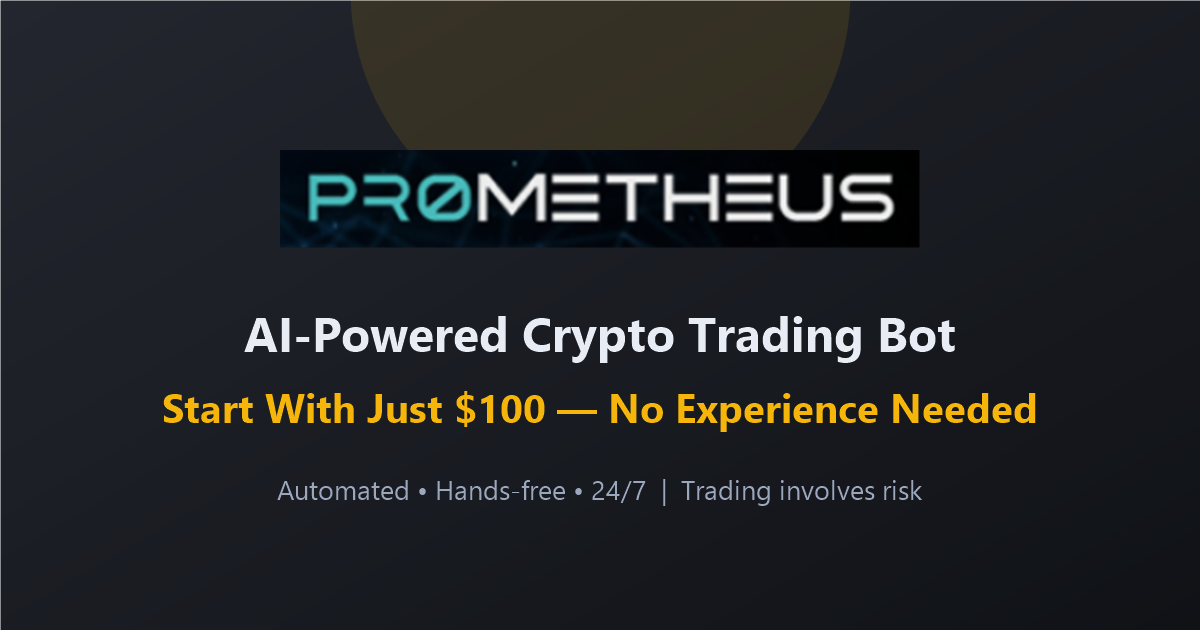
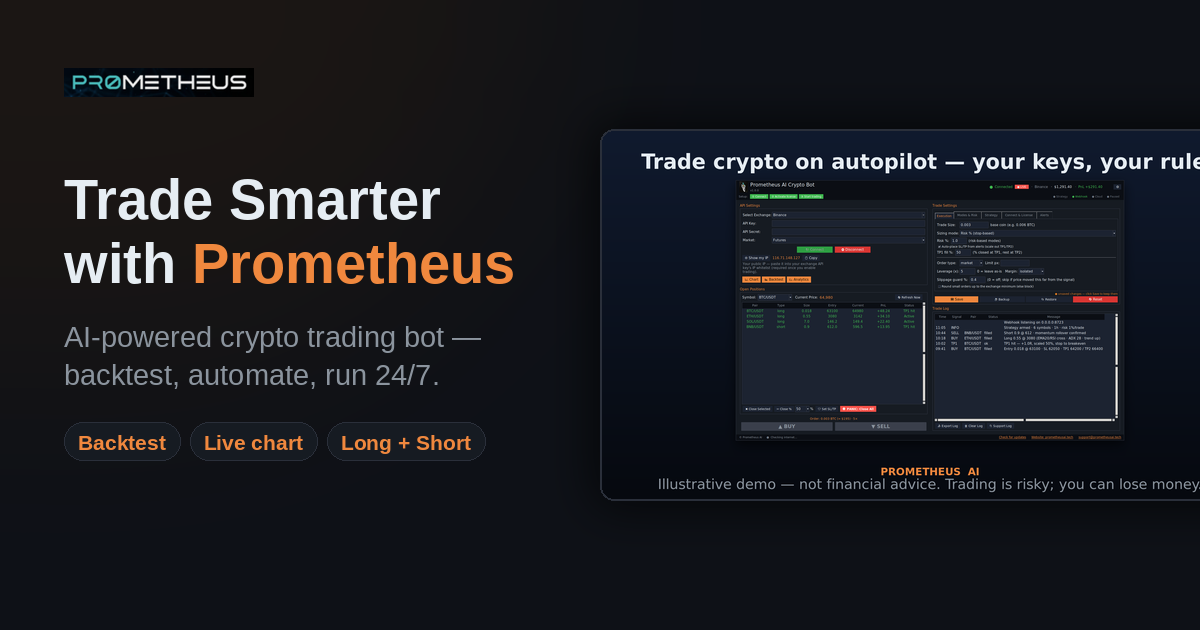
Site: branded 1200x630 OG image + OG/Twitter tags on all pages
- Regenerate assets/og-prometheus.jpg (and og-image.png) as a polished 1200x630
  link-preview card built from the dashboard screenshot (logo, headline, feature
  pills, framed app shot on the brand-dark background).
- Add Open Graph + Twitter Card tags to contact/privacy/refund/terms (built from
  each page's existing title/description/canonical) so every page now has rich
  social previews. Titles/descriptions/canonicals were already unique per page.

diff --git a/site/refund.html b/site/refund.html
@@ -7,6 +7,21 @@
   <meta name="description" content="Prometheus Refund Policy — our 90-day guarantee terms, how to request a refund, and what's covered, explained in plain English." />
   <meta name="robots" content="index, follow" />
   <link rel="canonical" href="https://prometheusai.tech/refund" />
+  <!-- ===== Open Graph / Social ===== -->
+  <meta property="og:type" content="website" />
+  <meta property="og:site_name" content="Prometheus" />
+  <meta property="og:title" content="Refund Policy | Prometheus" />
+  <meta property="og:description" content="Prometheus Refund Policy — our 90-day guarantee terms, how to request a refund, and what's covered, explained in plain English." />
+  <meta property="og:url" content="https://prometheusai.tech/refund" />
+  <meta property="og:image" content="https://prometheusai.tech/assets/og-prometheus.jpg" />
+  <meta property="og:image:type" content="image/jpeg" />
+  <meta property="og:image:width" content="1200" />
+  <meta property="og:image:height" content="630" />
+  <meta property="og:image:alt" content="Prometheus AI Crypto Trading Bot" />
+  <meta name="twitter:card" content="summary_large_image" />
+  <meta name="twitter:title" content="Refund Policy | Prometheus" />
+  <meta name="twitter:description" content="Prometheus Refund Policy — our 90-day guarantee terms, how to request a refund, and what's covered, explained in plain English." />
+  <meta name="twitter:image" content="https://prometheusai.tech/assets/og-prometheus.jpg" />
   <link rel="icon" type="image/png" href="assets/favicon.png" />
   <link rel="preconnect" href="https://fonts.googleapis.com" />
   <link rel="preconnect" href="https://fonts.gstatic.com" crossorigin />

diff --git a/site/privacy.html b/site/privacy.html
@@ -7,6 +7,21 @@
   <meta name="description" content="Prometheus Privacy Policy — what data we collect, why we collect it, and the choices you have, explained in plain English." />
   <meta name="robots" content="index, follow" />
   <link rel="canonical" href="https://prometheusai.tech/privacy" />
+  <!-- ===== Open Graph / Social ===== -->
+  <meta property="og:type" content="website" />
+  <meta property="og:site_name" content="Prometheus" />
+  <meta property="og:title" content="Privacy Policy | Prometheus" />
+  <meta property="og:description" content="Prometheus Privacy Policy — what data we collect, why we collect it, and the choices you have, explained in plain English." />
+  <meta property="og:url" content="https://prometheusai.tech/privacy" />
+  <meta property="og:image" content="https://prometheusai.tech/assets/og-prometheus.jpg" />
+  <meta property="og:image:type" content="image/jpeg" />
+  <meta property="og:image:width" content="1200" />
+  <meta property="og:image:height" content="630" />
+  <meta property="og:image:alt" content="Prometheus AI Crypto Trading Bot" />
+  <meta name="twitter:card" content="summary_large_image" />
+  <meta name="twitter:title" content="Privacy Policy | Prometheus" />
+  <meta name="twitter:description" content="Prometheus Privacy Policy — what data we collect, why we collect it, and the choices you have, explained in plain English." />
+  <meta name="twitter:image" content="https://prometheusai.tech/assets/og-prometheus.jpg" />
   <link rel="icon" type="image/png" href="assets/favicon.png" />
   <link rel="preconnect" href="https://fonts.googleapis.com" />
   <link rel="preconnect" href="https://fonts.gstatic.com" crossorigin />

diff --git a/site/terms.html b/site/terms.html
@@ -7,6 +7,21 @@
   <meta name="description" content="Prometheus Terms of Service — the rules for using our website and AI crypto trading software, explained in plain English." />
   <meta name="robots" content="index, follow" />
   <link rel="canonical" href="https://prometheusai.tech/terms" />
+  <!-- ===== Open Graph / Social ===== -->
+  <meta property="og:type" content="website" />
+  <meta property="og:site_name" content="Prometheus" />
+  <meta property="og:title" content="Terms of Service | Prometheus" />
+  <meta property="og:description" content="Prometheus Terms of Service — the rules for using our website and AI crypto trading software, explained in plain English." />
+  <meta property="og:url" content="https://prometheusai.tech/terms" />
+  <meta property="og:image" content="https://prometheusai.tech/assets/og-prometheus.jpg" />
+  <meta property="og:image:type" content="image/jpeg" />
+  <meta property="og:image:width" content="1200" />
+  <meta property="og:image:height" content="630" />
+  <meta property="og:image:alt" content="Prometheus AI Crypto Trading Bot" />
+  <meta name="twitter:card" content="summary_large_image" />
+  <meta name="twitter:title" content="Terms of Service | Prometheus" />
+  <meta name="twitter:description" content="Prometheus Terms of Service — the rules for using our website and AI crypto trading software, explained in plain English." />
+  <meta name="twitter:image" content="https://prometheusai.tech/assets/og-prometheus.jpg" />
   <link rel="icon" type="image/png" href="assets/favicon.png" />
   <link rel="preconnect" href="https://fonts.googleapis.com" />
   <link rel="preconnect" href="https://fonts.gstatic.com" crossorigin />

diff --git a/site/contact.html b/site/contact.html
@@ -7,6 +7,21 @@
   <meta name="description" content="Get in touch with the Prometheus team — support, questions, and help with your AI crypto trading bot." />
   <meta name="robots" content="index, follow" />
   <link rel="canonical" href="https://prometheusai.tech/contact" />
+  <!-- ===== Open Graph / Social ===== -->
+  <meta property="og:type" content="website" />
+  <meta property="og:site_name" content="Prometheus" />
+  <meta property="og:title" content="Contact Us | Prometheus" />
+  <meta property="og:description" content="Get in touch with the Prometheus team — support, questions, and help with your AI crypto trading bot." />
+  <meta property="og:url" content="https://prometheusai.tech/contact" />
+  <meta property="og:image" content="https://prometheusai.tech/assets/og-prometheus.jpg" />
+  <meta property="og:image:type" content="image/jpeg" />
+  <meta property="og:image:width" content="1200" />
+  <meta property="og:image:height" content="630" />
+  <meta property="og:image:alt" content="Prometheus AI Crypto Trading Bot" />
+  <meta name="twitter:card" content="summary_large_image" />
+  <meta name="twitter:title" content="Contact Us | Prometheus" />
+  <meta name="twitter:description" content="Get in touch with the Prometheus team — support, questions, and help with your AI crypto trading bot." />
+  <meta name="twitter:image" content="https://prometheusai.tech/assets/og-prometheus.jpg" />
   <link rel="icon" type="image/png" href="assets/favicon.png" />
   <link rel="preconnect" href="https://fonts.googleapis.com" />
   <link rel="preconnect" href="https://fonts.gstatic.com" crossorigin />
